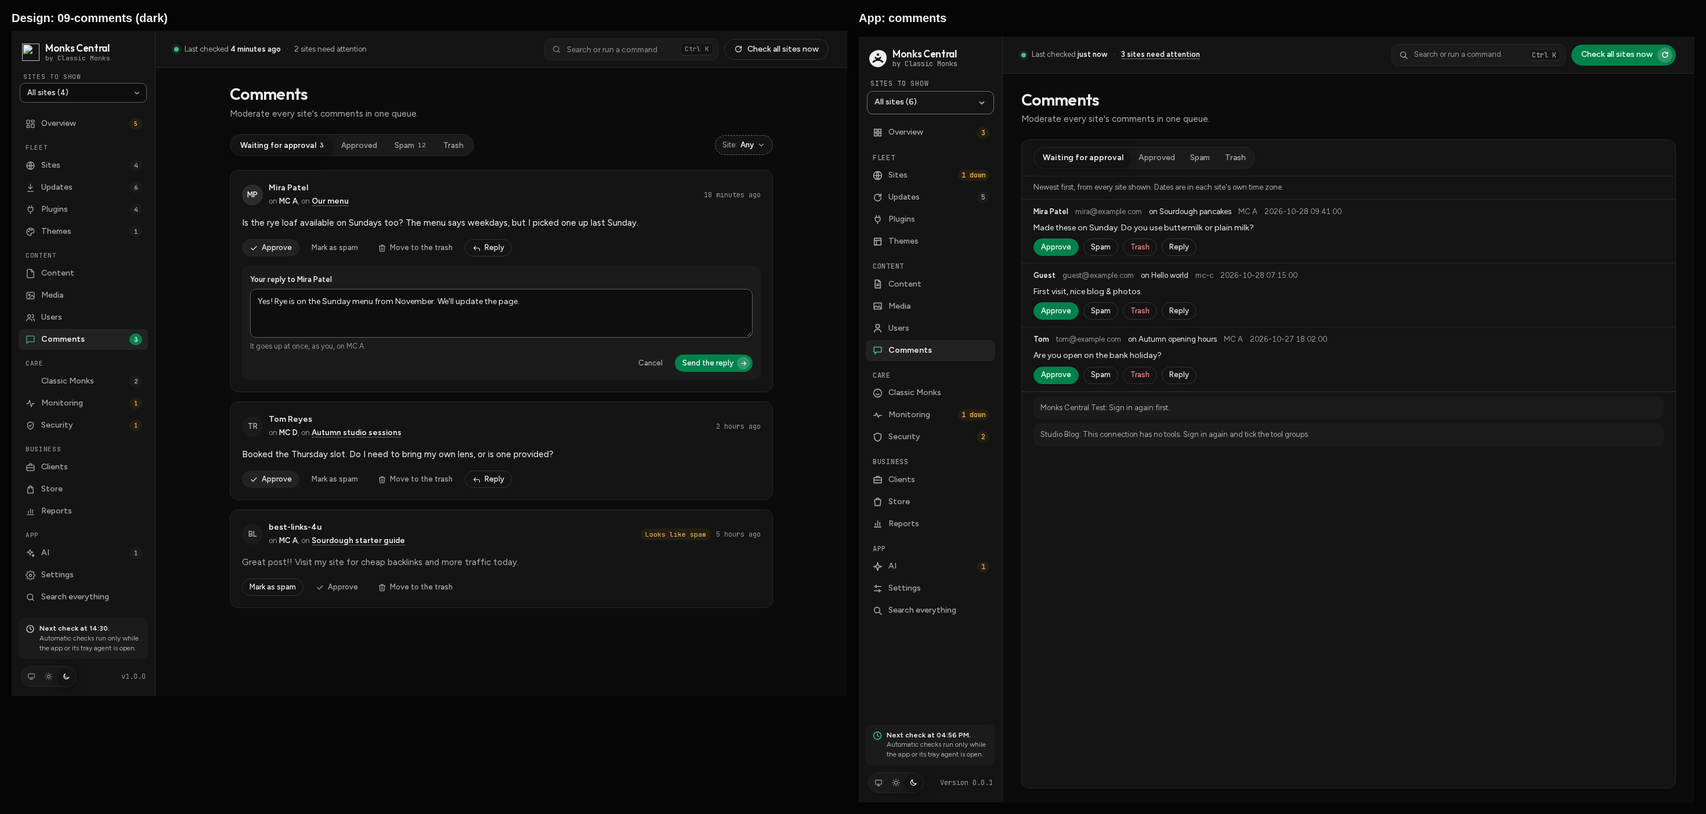
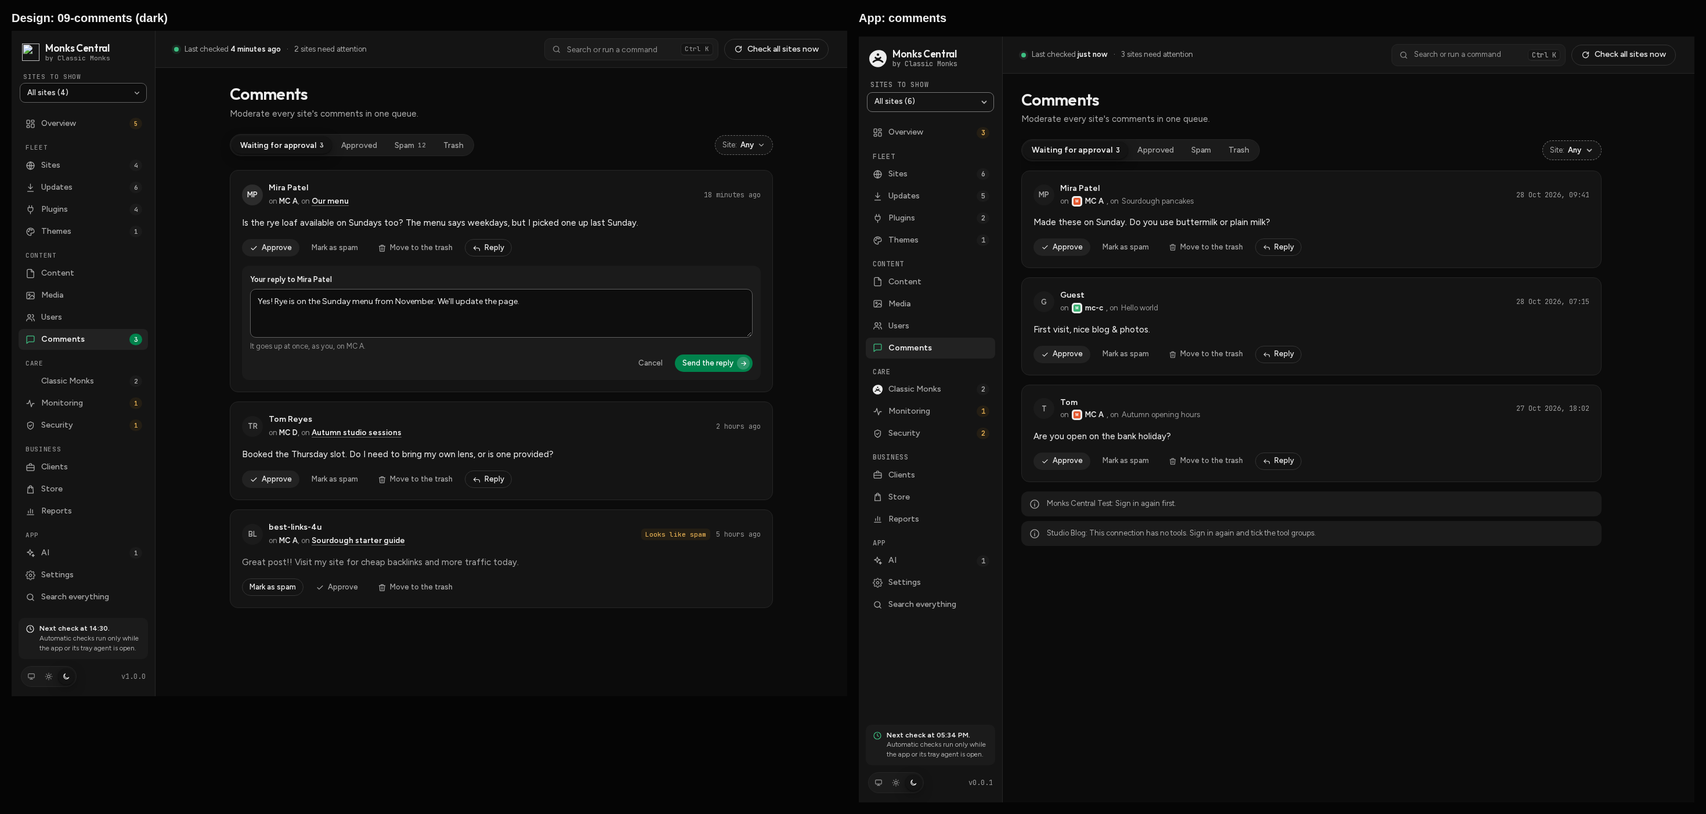
fix(ui): Users, Comments, Clients audit rows and compare shots; Sites tests mock events

diff --git a/ui/src/screens/Phase4.test.tsx b/ui/src/screens/Phase4.test.tsx
@@ -5,7 +5,7 @@ import type { ReactElement, ReactNode } from "react";
 import { invoke } from "@tauri-apps/api/core";
 import { Users } from "./Users";
 import { Comments, plainText } from "./Comments";
-import { ClassicMonks, toolLabel } from "./ClassicMonks";
+import { ClassicMonks, toolLabel, when } from "./ClassicMonks";
 import { site, choose } from "../test-fixtures";
 import { HeadSlot } from "../components/ui";
 import { cmBlocked, peopleBlocked, type Comment, type User } from "../api";
@@ -198,7 +198,7 @@ describe("Comments", () => {
     fireEvent.click(screen.getByRole("button", { name: "Spam" }));
     await waitFor(() => expect(calls).toContainEqual(["comments_list", { id: 1, status: "spam" }]));
     expect(await screen.findByRole("button", { name: "Approve Ana's comment on Alpha" })).toBeInTheDocument();
-    expect(screen.queryByRole("button", { name: /as spam$/ })).toBeNull();
+    expect(screen.queryByRole("button", { name: /^Mark as spam/ })).toBeNull();
   });
 
   it("an action keeps the list on screen, and Undo after a tab change reads the tab that shows", async () => {
@@ -234,7 +234,7 @@ describe("Comments", () => {
     unmount();
     core({ comment_moderate: () => Promise.reject("Comment not found.") });
     render(<Comments sites={[CM]} />);
-    fireEvent.click(await screen.findByRole("button", { name: "Move Ana's comment on Alpha to the trash" }));
+    fireEvent.click(await screen.findByRole("button", { name: "Move to the trash: Ana's comment on Alpha" }));
     expect(await screen.findByText("Comment not found.")).toBeInTheDocument();
   });
 
@@ -247,21 +247,23 @@ describe("Classic Monks", () => {
   it("turns a feature on and undoes it", async () => {
     const calls = core();
     render(<ClassicMonks sites={[CM]} />);
-    fireEvent.click(await screen.findByRole("button", { name: "Turn on SVG Support" }));
+    const svg = await screen.findByRole("switch", { name: "SVG Support" });
+    expect(svg).not.toBeChecked();
+    fireEvent.click(svg);
     expect(await screen.findByText("Turned on SVG Support on Alpha.")).toBeInTheDocument();
     expect(calls).toContainEqual(["cm_set_feature", { id: 1, name: "enable_svg", on: true }]);
-    expect(screen.getByRole("button", { name: "Turn off SVG Support" })).toBeInTheDocument();
+    expect(screen.getByRole("switch", { name: "SVG Support" })).toBeChecked();
     fireEvent.click(screen.getByRole("button", { name: "Undo" }));
     expect(await screen.findByText("Undone: Turned on SVG Support on Alpha.")).toBeInTheDocument();
     expect(calls).toContainEqual(["cm_undo", { id: 1, row: 42 }]);
     // The list reads the site again, so it shows what the undo put back.
-    expect(await screen.findByRole("button", { name: "Turn on SVG Support" })).toBeInTheDocument();
+    await waitFor(() => expect(screen.getByRole("switch", { name: "SVG Support" })).not.toBeChecked());
   });
 
   it("finds features in every section and shows locked ones as locked", async () => {
     core();
     render(<ClassicMonks sites={[CM]} />);
-    await screen.findByRole("button", { name: "Turn on SVG Support" });
+    await screen.findByRole("switch", { name: "SVG Support" });
     fireEvent.change(screen.getByRole("searchbox", { name: "Find a feature" }), { target: { value: "bad logins" } });
     const list = screen.getByRole("list", { name: "Matching features" });
     expect(within(list).getByText("Login Lockdown")).toBeInTheDocument();
@@ -274,7 +276,7 @@ describe("Classic Monks", () => {
   it("saves a setting, undoes from the log and opens an approval on the site", async () => {
     const calls = core();
     render(<ClassicMonks sites={[CM]} />);
-    await screen.findByRole("button", { name: "Turn on SVG Support" });
+    await screen.findByRole("switch", { name: "SVG Support" });
     const tabs = screen.getByRole("tablist", { name: "Show" });
     fireEvent.click(within(tabs).getByRole("tab", { name: "Settings" }));
     const q = await screen.findByRole("spinbutton", { name: "Image Quality" });
@@ -285,7 +287,7 @@ describe("Classic Monks", () => {
     expect(calls).toContainEqual(["cm_set_setting", { id: 1, name: "auto_q", value: 70 }]);
 
     fireEvent.click(within(tabs).getByRole("tab", { name: "Activity" }));
-    const table = await screen.findByRole("table", { name: "Activity" });
+    const table = await screen.findByRole("list", { name: "Activity" });
     expect(within(table).getByText("Update features")).toBeInTheDocument();
     fireEvent.click(within(table).getByRole("button", { name: /^Undo/ }));
     expect(await screen.findByText("Undone: Update features on Alpha.")).toBeInTheDocument();
@@ -300,7 +302,7 @@ describe("Classic Monks", () => {
     core();
     const released = site({ id: 4, name: "Released", capabilities: { abilities: ["get-features", "update-features"] } });
     render(<ClassicMonks sites={[BASIC, released]} />);
-    expect(await screen.findByRole("button", { name: "Turn on SVG Support" })).toBeInTheDocument();
+    expect(await screen.findByRole("switch", { name: "SVG Support" })).toBeInTheDocument();
     expect(within(screen.getByRole("tablist", { name: "Show" })).getAllByRole("tab").map((b) => b.textContent)).toEqual(["Features"]);
     choose(screen.getByRole("combobox", { name: "Site" }), "2");
     expect(screen.getByText("This site doesn't have Classic Monks. It's connected in Basic mode.")).toBeInTheDocument();
@@ -308,6 +310,10 @@ describe("Classic Monks", () => {
 
   it("names tools and blocks plainly", () => {
     expect(toolLabel("classic-monks/update-features")).toBe("Update features");
+    const noon = new Date(2026, 9, 28, 12);
+    expect(when("2026-10-28 09:30:12", noon)).toBe("Today, 09:30");
+    expect(when("2026-10-27 16:12:00", noon)).toBe("Yesterday, 16:12");
+    expect(when("2026-10-24 14:20:00", noon)).toBe("Oct 24, 14:20");
     expect(cmBlocked(OLD)).toMatch(/can't change Classic Monks/);
     expect(cmBlocked(site({ sign_in_again: true }))).toBe("Sign in again first.");
     expect(peopleBlocked(BASIC, "get-users")).toBeNull();

diff --git a/ui/src/screens/Sites.test.tsx b/ui/src/screens/Sites.test.tsx
@@ -6,6 +6,7 @@ import { Select } from "../components/controls";
 import { site } from "../test-fixtures";
 
 vi.mock("@tauri-apps/api/core", () => ({ invoke: vi.fn() }));
+vi.mock("@tauri-apps/api/event", () => ({ listen: vi.fn(() => Promise.resolve(() => {})) }));
 const mockInvoke = vi.mocked(invoke);
 afterEach(() => mockInvoke.mockReset());
 // The inventory read (useInventory) and anything a test does not set up answer with nothing.
@@ -51,7 +52,7 @@ test("keys: j moves, x selects, / filters, a adds", () => {
 });
 
 test("remove asks first, then reports what happened on the site", async () => {
-  mockInvoke.mockResolvedValue({ signed_out: true, message: "Removed. Monks Central signed out of the site." });
+  mockInvoke.mockImplementation(async (c) => (c === "inventory_list" ? [] : { signed_out: true, message: "Removed. Monks Central signed out of the site." }));
   render(<Harness />);
   fireEvent.click(screen.getByRole("button", { name: "Remove from Monks Central" }));
   expect(screen.getByRole("alertdialog", { name: "Remove Alpha" })).toHaveTextContent("signs out on the site");
@@ -61,7 +62,7 @@ test("remove asks first, then reports what happened on the site", async () => {
 });
 
 test("tags, notes and group go to the core", async () => {
-  mockInvoke.mockResolvedValue(SITES[0]);
+  mockInvoke.mockImplementation(async (c) => (c === "inventory_list" ? [] : SITES[0]));
   render(<Harness />);
   const tag = screen.getByRole("combobox", { name: "Tags" });
   fireEvent.change(tag, { target: { value: "woo" } });
@@ -113,7 +114,7 @@ test("Space on a row's checkbox is left to that checkbox; rows say selected only
 });
 
 test("one-click login shows only where the connection can make a login link", async () => {
-  mockInvoke.mockResolvedValue(null);
+  mockInvoke.mockImplementation(async (c) => (c === "inventory_list" ? [] : null));
   const login = site({ id: 4, name: "Delta", capabilities: { operator: true, abilities: ["create-login-link"] } });
   const { rerender } = render(<Sites sites={[...SITES, login]} groups={[]} focusId={4} setFocusId={vi.fn()} onAdd={vi.fn()} onSignInAgain={vi.fn()} />);
   fireEvent.click(screen.getByRole("button", { name: "Log in to the dashboard" }));
@@ -125,7 +126,7 @@ test("one-click login shows only where the connection can make a login link", as
 });
 
 test("deleting a note offers Undo, which writes it again", async () => {
-  mockInvoke.mockResolvedValue(undefined);
+  mockInvoke.mockImplementation(async (c) => (c === "inventory_list" ? [] : undefined));
   const noted = [{ ...SITES[0], notes: [{ id: 7, body: "Renews in March", added_at: 0 }] }, ...SITES.slice(1)];
   render(
     <Sites sites={noted} groups={[]} focusId={null} setFocusId={vi.fn()} onAdd={vi.fn()} onSignInAgain={vi.fn()} />,
@@ -153,7 +154,7 @@ test("keys typed in the kit's own controls are theirs, not the table's", () => {
 });
 
 test("Enter in an empty group box leaves the selection's groups alone; a name moves them and says so", async () => {
-  mockInvoke.mockResolvedValue(null);
+  mockInvoke.mockImplementation(async (c) => (c === "inventory_list" ? [] : null));
   render(<Harness />);
   fireEvent.keyDown(document, { key: "x" });
   const box = screen.getByRole("combobox", { name: "Group for the selected sites" });

diff --git a/ui/src/screens/Comments.tsx b/ui/src/screens/Comments.tsx
@@ -192,12 +192,12 @@ export function Comments({ sites }: { sites: Site[] }) {
                       </Button>
                     )}
                     {show !== "spam" && (
-                      <Button small className="ghost" disabled={busy === k} aria-label={`Mark ${who}'s comment on ${r.site.name} as spam`} onClick={() => act(r, "spam")}>
+                      <Button small className="ghost" disabled={busy === k} aria-label={`Mark as spam: ${who}'s comment on ${r.site.name}`} onClick={() => act(r, "spam")}>
                         Mark as spam
                       </Button>
                     )}
                     {show !== "trash" && (
-                      <Button small className="ghost" disabled={busy === k} aria-label={`Move ${who}'s comment on ${r.site.name} to the trash`} onClick={() => act(r, "trash")}>
+                      <Button small className="ghost" disabled={busy === k} aria-label={`Move to the trash: ${who}'s comment on ${r.site.name}`} onClick={() => act(r, "trash")}>
                         <Glyph name="trash" />
                         Move to the trash
                       </Button>

diff --git a/docs/design/redesign/audit/d06-users-clients.md b/docs/design/redesign/audit/d06-users-clients.md
@@ -1,0 +1,18 @@
+| Page | Section | Design | App (before) | Fix | Status |
+|---|---|---|---|---|---|
+| D06 Users and clients | Sheet chrome | Centred dialogs; head with an x close; Delete has a red trash tile and "Delete Sam Okafor from MC A" / "Their account on MC B stays as it is." | Side sheet, title + intro | None here | kept: Sheet chrome (03/D03), owned by the sheet agent; this pass styles what's inside |
+| D06 Users and clients | Sheet chrome | Add a cost or charge: the kind segmented sits in the head | Segmented at the top of the body | Kept in the body | kept: Sheet chrome (03/D03), the head takes no controls |
+| D06 Users and clients | Add a user | Site select | Name only | `<SiteTile sm>` before each site in the Site select | done |
+| D06 Users and clients | Add a user | Username and Email side by side (`mc-g2`, 12px gap), help under Username | Stacked | `.g2.pair` (new shared class, base.css: 12px gap, top aligned so Email doesn't drop when the help wraps) | done |
+| D06 Users and clients | Add a user | Amber note with alert icon: "**An administrator can change everything on MC A,** including plugins, users and settings." | Small help line under Role | `.callout.warning.admin-note` with `Glyph alert`, the design's words; Change role uses the same note | done |
+| D06 Users and clients | Add a user | Footer: ghost Cancel, primary "Add the administrator" with plus disc | Primary first, outlined Cancel | Ghost Cancel then primary `.disc` + `Glyph plus`; Change role: primary with check disc | done |
+| D06 Users and clients | Delete a user | Select starts on "Choose a user"; solid red "Delete Sam Okafor" with trash icon, disabled until chosen; ghost Cancel first | The first other user picked; outlined red Delete | `placeholder="Choose a user"`, nobody picked; `.btn.danger.solid` + `Glyph trash`, disabled until a user is chosen (Phase4 test chooses now) | done |
+| D06 Users and clients | Delete a user | Options are names ("Mira Patel") | "Name (username)" | Kept "Name (username)" | kept: two users can share a display name; the username tells them apart |
+| D06 Users and clients | Delete a user | Help: "Sam wrote 12 posts and 3 pages on MC A." | None | "Their posts and pages move to this user before X is deleted from Y." | kept: the users API has no post counts |
+| D06 Users and clients | Edit a client | Name and Email side by side; Notes 72px | Stacked; 3-row notes | `.g2.pair`; `.notes-box` min 72px | done |
+| D06 Users and clients | Edit a client | Their sites as checkboxes, "now with Studio North" small after a taken site | Multi-select: chips + a type-to-find box ("(now with X)" in the option) | Kept the multi-select | kept: a checkbox per site grows past a screen with a real fleet; the multi-select finds a site by typing (a11y.spec "a client is added from the keyboard") |
+| D06 Users and clients | Edit a client | Footer: outlined red "Delete the client" with trash on the left, ghost "Close without saving", primary "Save changes" with check disc | Red outlined Delete, outlined Close, primary without disc | `Glyph trash` on Delete (`.push`), ghost Close, primary `.disc` + `Glyph check` (plus on Add the client); the delete confirm uses `.btn.danger.solid` | done |
+| D06 Users and clients | Add a cost or charge | Two-column grid: On / What it is, Amount / Currency (mono), How often / Renews on | Stacked, Amount + Currency in a row | `.g2.pair` around the six fields; `.input.mono` for amount and currency; the amount error stays under Amount | done |
+| D06 Users and clients | Add a cost or charge | How often: Monthly, Yearly, Once | Every month, Every year, Once | The design's words (lower case in the table meta) | done |
+| D06 Users and clients | Add a cost or charge | Footer: ghost "Close", primary "Add it" with plus disc | Outlined "Close without saving", primary | Ghost "Close" when new ("Close without saving" when editing), primary `.disc` + `Glyph plus` / `check` | done |
+| D06 Users and clients | On select | Plain names | Plain names | `<SiteTile sm>` before each site under Sites | done |

diff --git a/docs/design/redesign/audit/13-clients.md b/docs/design/redesign/audit/13-clients.md
@@ -1,0 +1,16 @@
+| Page | Section | Design | App (before) | Fix | Status |
+|---|---|---|---|---|---|
+| 13 Clients | Layout | Page on the ground: three stat cards, then a table card with Renewing soon beside it (`split-r`) | One card: a bar, a legend, the Clients table, a "Costs and charges" heading and a second table | `.scroll.page.clients` > `.stack`: `section.g3` of `.stat`, `.split-r` with two cards (screens/clients.css) | done |
+| 13 Clients | Page head | Secondary "Add a cost or charge" with plus icon, primary "Add a client" with plus disc | Small buttons in the bar | `<HeadActions>`; names unchanged | done |
+| 13 Clients | Stats | CHARGED EACH MONTH $340 "from 2 clients"; COSTS EACH MONTH $86 "hosting, licences, email"; LEFT OVER $254 "a month" + a cost/left bar | None (count in the bar) | `.stat` cards with `.label`, 36px `strong` (whole amounts drop ".00"), the clients paying, the first cost names (cut, full in the tooltip), and a `.mix` bar (`k-off` costs, `k-up` left, `role="img"` "Costs are N% of charges") | done |
+| 13 Clients | Stats | One currency | Amounts in several currencies | The currency most amounts use is the big number; any other is a quiet "Also $23.25" line | done |
+| 13 Clients | Table | Columns Client or cost, Sites, Charged, Costs, Monthly (numbers right) | Client, Sites, Costs a month, Charges a month, Left a month, Next renewal | The design's columns, `.r` mono amounts, one line per currency; a column leaves out a currency with nothing in it | done |
+| 13 Clients | Table | Client: 36px initials avatar, bold name, mono email; the open client tinted | Underlined link, email under it | `.site` with `.av.lg.well`, name button (bold, underline on hover), mono `small`; the row of the client being edited gets `tr.sel` | done |
+| 13 Clients | Table | Sites as well pills ("MC A") | "MC A, Corner Bakery" text | `.pchip` per site with `<SiteTile sm>` (the brief: tiles in client site lists) | done |
+| 13 Clients | Table | Costs and charges set in under their client (62px): name 500, "Charge · monthly · renews Jan 4", the amount in its column | A separate "Costs and charges" table | `tr.item` rows under each client (charges first); name opens the cost sheet; meta: kind, how often, the site when the client has several, renews/due date; raw amount in Charged or Costs | done |
+| 13 Clients | Table | "No client yet / Costs you pay yourself" with a dashed "?" avatar | "No client" | Same words and dashed `.av.none`; holds sites without a client and costs on them (and any cost whose client is gone) | done |
+| 13 Clients | Table | Monthly negative in red "−$10" | "minus €x" in red | Intl's "-$10.00" in red, bold: sign and colour | done |
+| 13 Clients | Table | Next renewal column | Next renewal column | Moved to Renewing soon and each cost's meta line | done |
+| 13 Clients | Table | No legend | "Per month: a yearly amount counts a twelfth..." row | A subtle `.card-foot` line, the table's description | kept: the Monthly numbers need the rule (yearly counted as a twelfth, one-off left out); it sits quietly in the foot |
+| 13 Clients | Renewing soon | Card head with a calendar icon; `.mc-item` rows: neutral tile (server/globe), "Hosting · Studio North", "Nov 12 · yearly · $180", amber "15 days" badge, others grey | None | `.card-head` + `Glyph calendar`; `.fix` rows: `.tile.sm.neutral` (globe for domains, monitor for hosting, package otherwise; the icon set has no server), label · client or site, date · how often · amount, `.tag` days (amber within 30 days, red when passed) | done |
+| 13 Clients | Dark | Same structure on dark2 | Same as light before | Same classes; tokens carry the theme | done |

diff --git a/docs/design/redesign/audit/09-comments.md b/docs/design/redesign/audit/09-comments.md
@@ -1,0 +1,19 @@
+| Page | Section | Design | App (before) | Fix | Status |
+|---|---|---|---|---|---|
+| 09 Comments | Layout | 1000px page on the ground: a row with the lists and a Site filter, then a card per comment | One big card with a bar, a legend and divided rows | `.scroll.page.comments` > `.stack` (max 1000px), `.filters`, `ul.stack.inbox` of `li.card` (screens/comments.css) | done |
+| 09 Comments | Layout | Head and page centred in a 1000px column | Head on the left | The cards are 1000px wide at most, from the left edge under the head | kept: the page head is the App shell's; centring only the cards would put them out of line with it |
+| 09 Comments | Filter row | `.segmented` with counts (Waiting for approval 3, Spam 12) | Segmented without counts | `.segmented.inline`; the open list shows its total (sum over sites) in `small` | done |
+| 09 Comments | Filter row | Counts on lists that aren't open | None | Only the open list's count | kept: a count for each list would cost one request per list per site |
+| 09 Comments | Filter row | Dashed "Site: Any" chip pushed right | None | `Menu className="chip"` after `.end`; filters the comments already read | done |
+| 09 Comments | Comment card | 36px initials avatar, bold name, subtle "on **MC A**, on <link>Our menu</link>", mono time on the right | One meta line: name, email, post, site, date | `.cwho`: `.av.lg.well`, `b` name (email in the tooltip), `.on` line with `<SiteTile sm>` + bold site, post title; mono `.when` | done |
+| 09 Comments | Comment card | Post title is a green link to Content | Plain text | Plain text, full title in the tooltip | kept: Content opens one site's list, not a single post from here |
+| 09 Comments | Comment card | "18 minutes ago" | "2026-10-28 09:41:00" | "28 Oct 2026, 09:41" (the app's date format), raw value on hover | kept: the API gives the site's local time without its zone, so "minutes ago" could be hours off |
+| 09 Comments | Comment card | Text 15px / 23px | 14px | `.said` `--fs-md` / 23px | done |
+| 09 Comments | Comment card | One avatar tinted (`mc-av--me`) | None | All on the well | kept: the app doesn't know which commenter is you |
+| 09 Comments | Comment card | "Looks like spam" amber badge on one comment | None | None | kept: the comments API has no spam score |
+| 09 Comments | Actions | Soft "Approve" with check, ghost "Mark as spam", ghost trash "Move to the trash", secondary reply icon "Reply" (aria-expanded) | Small primary Approve, outlined Spam, red Trash, Reply hidden while replying | `.btn.soft` + `Glyph check`, `.ghost` buttons with the design's words and icons, Reply stays with `aria-expanded` and toggles | done |
+| 09 Comments | Actions | (names) | "Mark X's comment on Y as spam", "Move X's comment on Y to the trash" | "Mark as spam: X's comment on Y", "Move to the trash: X's comment on Y" (axe label-in-name: the visible words start the name) | done |
+| 09 Comments | Reply | A well (14px, 12px radius): label, 84px textarea, help, then ghost Cancel and primary "Send the reply" with an arrow disc on the right | Plain form, Send then Cancel on the left | `.reply` well, textarea min 84px, `.rowacts` right: ghost Cancel, primary `.disc` + `Glyph arrow` (a11y.spec now tabs through Cancel to Send) | done |
+| 09 Comments | Legend | None | "Newest first..." row | `.sr-only`, still the list's description | done |
+| 09 Comments | Notes | None | Text rows under the list | A `.callout` each under the cards | done |
+| 09 Comments | Dark | Same structure on dark2 | Same as light before | Same classes; tokens carry the theme | done |

diff --git a/docs/design/redesign/audit/08-users.md b/docs/design/redesign/audit/08-users.md
@@ -1,0 +1,18 @@
+| Page | Section | Design | App (before) | Fix | Status |
+|---|---|---|---|---|---|
+| 08 Users | Layout | Page on the ground: a filter row, then one flush card | One big card with a `.bar`, a legend row and a notes list | `.scroll.page.users` > `.stack`: `form.filters`, `section.card` (screens/users.css) | done |
+| 08 Users | Page head | "Add a user" primary pill with a plus disc, in the head | Small primary button at the end of the bar | `<HeadActions>` primary `.disc` + `Glyph plus`; name unchanged | done |
+| 08 Users | Filter row | Search pill 260-340px "Search users by name or email", secondary Search | Small box "Search by name, username or email" + small Search | `SearchInput` pill (flex 1 1 260px, max 340px), normal Search button; Enter still searches | done |
+| 08 Users | Filter row | Dashed chips "Site: Any" and "Role: Any" with a chevron | None | `Menu className="chip"` for Site (Any + every site shown) and Role (Any + every role the sites have); filter the rows already read; a chosen one gets `.chip.on` | done |
+| 08 Users | Table | Columns User, Site, Role, Last seen, Actions (right) | Name, Email, Role, Site, (actions) | User, Site, Role, Joined, Actions (`.r`) | done |
+| 08 Users | Table | User: 36px initials avatar, bold name, mono email under it | Bold name, dim username, email in its own column | `.site`: `.av.lg.well` initials, `b` name, mono `small` email (username when there is no email) | done |
+| 08 Users | Table | One avatar tinted green (`mc-av--me`, the signed-in person) | None | All avatars on the well | kept: the app doesn't know which site user is you |
+| 08 Users | Table | Site: 22px site letter tile + name, 13px muted | Site name text | `.conn` with `<SiteTile size="sm">` (22px here) + name | done |
+| 08 Users | Table | Role as a 28px well pill; Administrator green (`cm-chip--brand`) | Plain text | `.pchip`, `.pchip.brand` for administrators (new shared class, base.css) | done |
+| 08 Users | Table | LAST SEEN, mono 12px subtle ("Today", "3 days ago") | None | "Joined": the user's registered date, mono `.when`, full time on hover | kept: WordPress keeps no last-seen time; the users API has the registered date, shown instead |
+| 08 Users | Table | Actions: ghost small "Change role", ghost small mail icon "Send password reset", 32px trash icon button | Outlined small buttons, red "Delete" button | `.btn.ghost.sm`, `Glyph mail`, `.icon-btn` with `Glyph trash`; accessible names unchanged ("Delete X from Y") | done |
+| 08 Users | Table | 56px rows, 16px cell padding | 48px rows | 60px (the 36px avatar and two lines), 16px padding | done |
+| 08 Users | Legend | No legend | "Users on every site shown..." row above the table | `.sr-only` (still the table's description) | done |
+| 08 Users | Card foot | "5 accounts for 4 people on 4 sites" subtle | None | `.card-foot` count: accounts, people (by email), sites | done |
+| 08 Users | Notes | None (all sites read) | Text rows under the table | A `.callout` each under the card (info; warning when a site failed) | done |
+| 08 Users | Dark | Same structure on dark2 | Same as light before | Same classes; tokens carry the theme | done |
